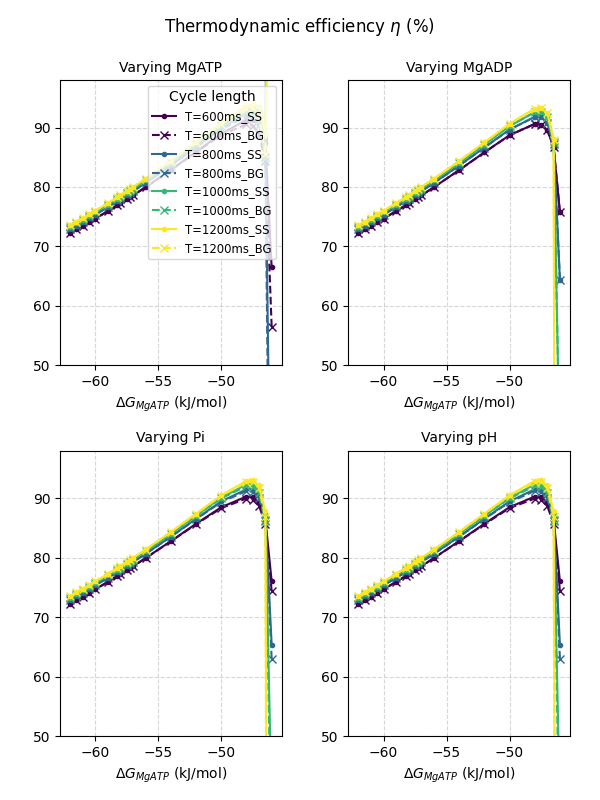
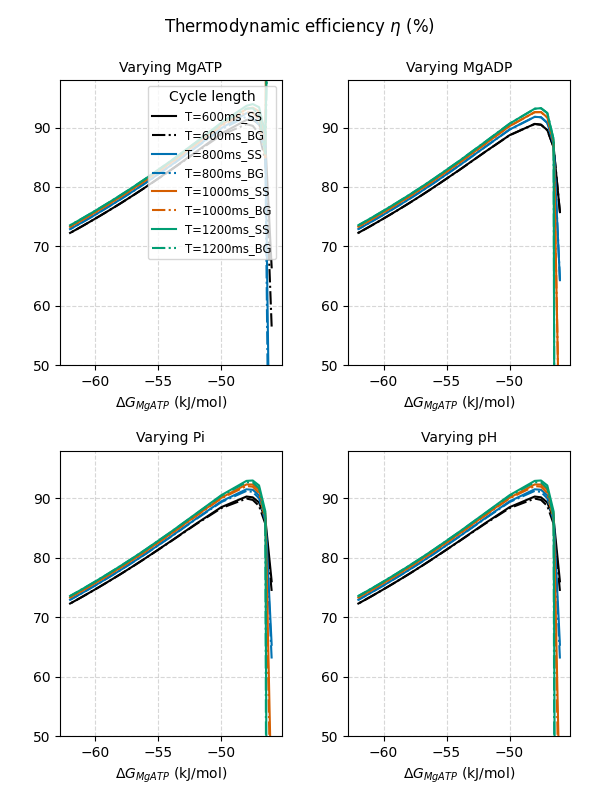
Update the figures (color and linestyle change)

diff --git a/main.tex b/main.tex
@@ -487,7 +487,7 @@ From the figures, we can see that the \gls{mgatp}, \gls{mgadp}, \gls{pi} concent
 \label{fig:thermodynamic_efficiency_AP_deltaGATP} 
 \end{figure}
 
-We can see that the thermodynamic efficiency of both models increases with lower $\Delta G_{MgATP}$ values (less negative) until it drops in the full bond graph models after the $\Delta G_{MgATP}$ reaches around -48 kJ/mol. 
+We can see that the thermodynamic efficiency of both models increases with lower $\Delta G_{MgATP}$ values (less negative) until it drops in the full bond graph models \rev{(dash-dotted line)} after the $\Delta G_{MgATP}$ reaches around -48 kJ/mol. 
 We calculated the combined free energy for the chemical and electrical stores at resting potential (85 mV) $\Delta G_{NKA}$ using Equation \ref{eq:deltaG_nka}, which becomes positive when $\Delta G_{MgATP}=-46$ kJ/mol.
 This seems aligned with the study \cite{kammermeier_high_1987,glitsch_change_1995}. Kammermeier estimated that the \gls{nka} in the heart requires a minimum $\Delta G_{MgATP}$ of $-46$ kJ/mol, while the study \cite{glitsch_change_1995} found that when $\Delta G_{MgATP}$ was approximately $-49$ kJ/mol, little activity of \gls{nka} at membrane potentials more negative than $-75$ mV was observed in sheep Purkinje cells.
 
@@ -523,7 +523,7 @@ In our simulation, the energy flow (i.e., power output) of the membrane potentia
 which means that the charges over the membrane act as energy source.
 This leads to a drop in electrical conversion efficiency and consequently a drop in thermodynamic efficiency of the \gls{nka}.
 
-It is worth noting that the electrical conversion efficiency is lower at higher work rate (i.e. shorter \gls{bcl}). \rev{We examined the simulated results, which show slightly higher mean turnover rates of the \gls{nka} at shorter \gls{bcl} values, accompanied by increased energy dissipation as heat. This finding is consistent with the theoretical analysis, which predicts that a positive membrane potential accelerates \gls{nka} activity. Shorter \gls{bcl} values result in a higher average membrane potential, thereby increasing \gls{nka} activity and heat dissipation. In addition, when the membrane potential is positive while the \gls{nka} transports net positive charges out of the cell, the electrical energy flow is negative. In other words, energy flows out of the membrane rather than into it, reducing the electrical energy conversion efficiency. Interestingly, both \gls{mgadp} and \gls{pi} concentrations increase at higher work rates, as reported by \cite{wu_phosphate_2008}. This may slow \gls{nka} activity, thereby contributing to the maintenance of its high thermodynamic efficiency. The full bond graph of the 15-state model exhibits a decline in efficiency at an earlier stage than its corresponding steady-state model, whereas the 6-state model does not show such a difference. This discrepancy may arise from differences in how the two models represent electrogenic coupling, i.e., the coupling between the membrane potential and the reaction steps.}
+It is worth noting that the electrical conversion efficiency is lower at higher work rate (i.e. shorter \gls{bcl}). \rev{We examined the simulated results, which show slightly higher mean turnover rates of the \gls{nka} at shorter \gls{bcl} values, accompanied by increased energy dissipation as heat. This finding is consistent with the theoretical analysis, which predicts that a positive membrane potential accelerates \gls{nka} activity. Shorter \gls{bcl} values result in a higher average membrane potential, thereby increasing \gls{nka} activity and heat dissipation. In addition, when the membrane potential is positive while the \gls{nka} transports net positive charges out of the cell, the electrical energy flow is negative. In other words, energy flows out of the membrane rather than into it, reducing the electrical energy conversion efficiency. Interestingly, both \gls{mgadp} and \gls{pi} concentrations increase at higher work rates, as reported by \cite{wu_phosphate_2008}. This may slow \gls{nka} activity, thereby contributing to the maintenance of its high thermodynamic efficiency. The full bond graph of the 15-state model \rev{(dash-dotted line)} exhibits a decline in efficiency at an earlier stage than its corresponding steady-state model \rev{(solid line)}, whereas the 6-state model does not show such a difference. This discrepancy may arise from differences in how the two models represent electrogenic coupling, i.e., the coupling between the membrane potential and the reaction steps.}
 
 \subsection*{Inhibition of \Gls{nka} by reduced \texorpdfstring{$\Delta G_{MgATP}$}{Lg}}
 
